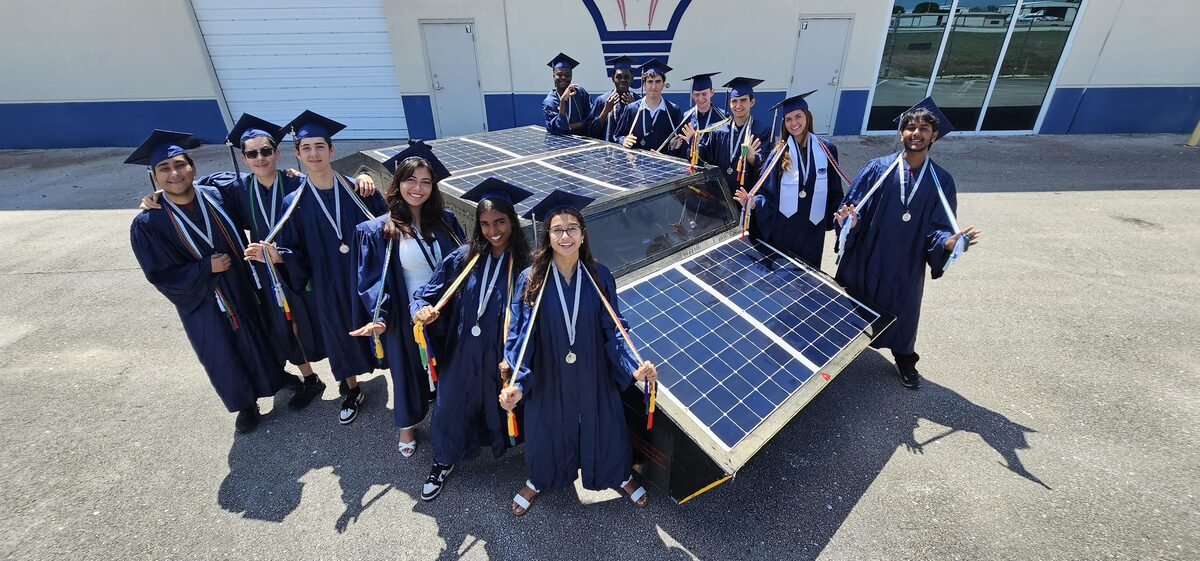
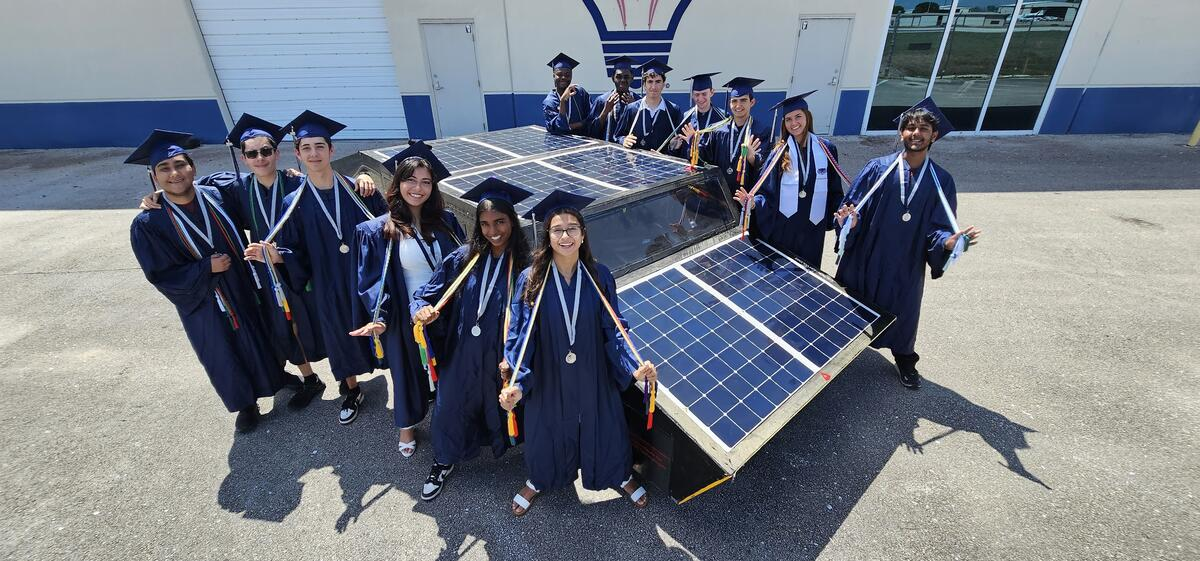
Re-encode images: 21% smaller, no visible change
- encode WebP and JPEG both from the original rather than deriving the
  WebP from the already-lossy JPEG, which stacked two generations of
  artefacts for nothing
- webp:method=6, the slow encoder: same quality, ~5% smaller, costs only
  build time
- figures are 1280 wide, exactly 2x the 40rem slot they render in; 1400
  was paying for pixels no display could show
- q75 on the two outliers (polyoculus-concept, aev-team) after checking
  a 1:1 crop — the diagram labels are equally legible

diff --git a/aev.html b/aev.html
@@ -33,8 +33,8 @@
 
 <figure>
 <picture>
-<source type=image/webp srcset="assets/aev-cockpit-1400.webp">
-<img src="assets/aev-cockpit-1400.jpg" width=1400 height=647 decoding=async alt="View from inside the solar car on the speedway. A driver's hand rests on the steering wheel; the dashboard screen shows a live track camera, lap times, a 42 percent state-of-charge gauge, pack voltage and current, and per-cell battery statistics.">
+<source type=image/webp srcset="assets/aev-cockpit-1280.webp">
+<img src="assets/aev-cockpit-1280.jpg" width=1280 height=591 decoding=async alt="View from inside the solar car on the speedway. A driver's hand rests on the steering wheel; the dashboard screen shows a live track camera, lap times, a 42 percent state-of-charge gauge, pack voltage and current, and per-cell battery statistics.">
 </picture>
 <figcaption>Everything on that screen is the team's own software.</figcaption>
 </figure>

diff --git a/holography.html b/holography.html
@@ -33,8 +33,8 @@
 
 <figure>
 <picture>
-<source type=image/webp srcset="assets/bench-top-1400.webp">
-<img src="assets/bench-top-1400.jpg" width=1400 height=629 decoding=async alt="Overhead view of the off-axis digital holography setup: interferometer optics and mirror mounts along the top of the breadboard, fibre-coupled polarisation controllers in the middle, and the multi-port fibre switch at right.">
+<source type=image/webp srcset="assets/bench-top-1280.webp">
+<img src="assets/bench-top-1280.jpg" width=1280 height=575 decoding=async alt="Overhead view of the off-axis digital holography setup: interferometer optics and mirror mounts along the top of the breadboard, fibre-coupled polarisation controllers in the middle, and the multi-port fibre switch at right.">
 </picture>
 <figcaption>The off-axis digital holography bench.</figcaption>
 </figure>

diff --git a/chameleon.html b/chameleon.html
@@ -36,8 +36,8 @@
 
 <figure>
 <picture>
-<source type=image/webp srcset="assets/symposium-1400.webp">
-<img src="assets/symposium-1400.jpg" width=1400 height=600 decoding=async alt="Six members of the project team standing together behind a presentation console at the research symposium.">
+<source type=image/webp srcset="assets/symposium-1280.webp">
+<img src="assets/symposium-1280.jpg" width=1280 height=549 decoding=async alt="Six members of the project team standing together behind a presentation console at the research symposium.">
 </picture>
 <figcaption>The team at the Wilkes Honors College Undergraduate Research Symposium, March 2025.</figcaption>
 </figure>
